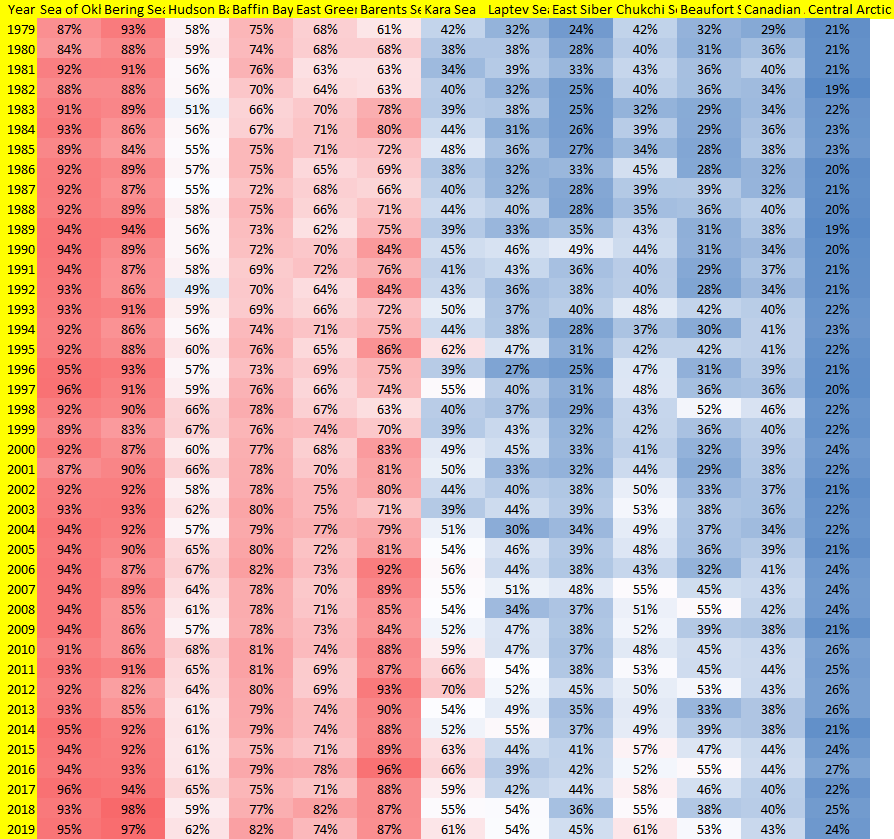
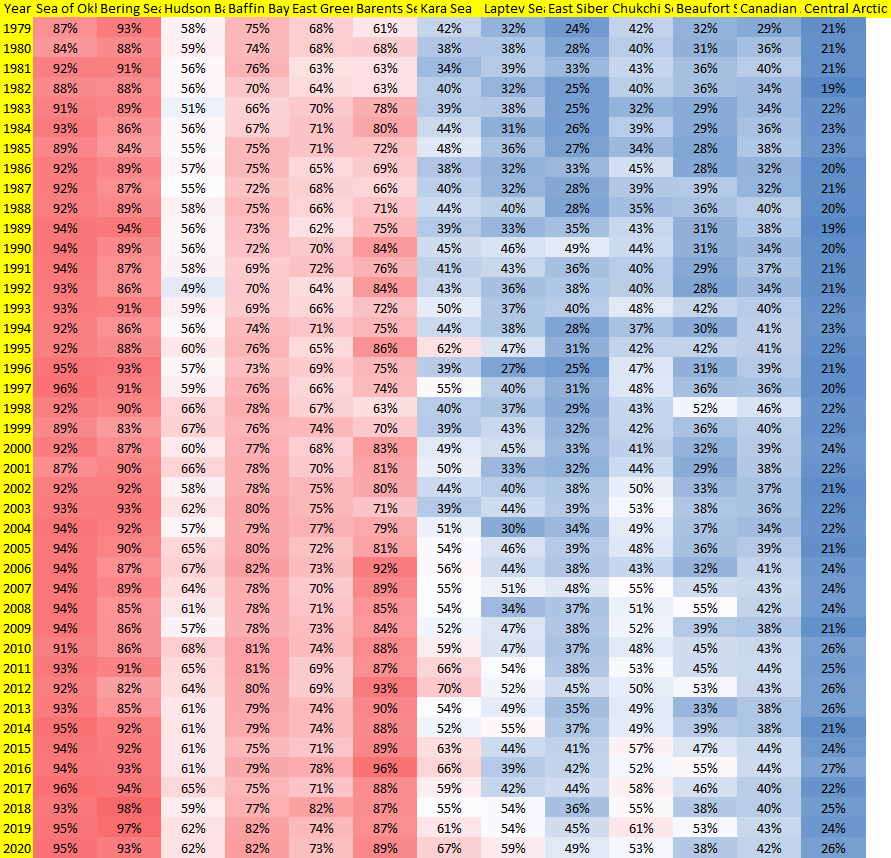
update AWP 2020

diff --git a/awp.html b/awp.html
@@ -219,7 +219,7 @@ p.ex {
 <div class="slidecontainer">
     <span>Year:</span>
     <span id="Arctic_Yearselect" style="font-weight:bold;color:red">2000</span>
-  <input type="range" min="1979" max="2019" value="2000" class="slider" id="myRange_Arctic" style="width:66%">
+  <input type="range" min="1979" max="2020" value="2000" class="slider" id="myRange_Arctic" style="width:66%">
 </div>
 
    </div>
@@ -276,7 +276,7 @@ p.ex {
 <div class="slidecontainer">
     <span>Year:</span>
     <span id="Arctic_Percentselect" style="font-weight:bold;color:red">2000</span>
-  <input type="range" min="1979" max="2019" value="2000" class="slider" id="Percentslider" style="width:66%">
+  <input type="range" min="1979" max="2020" value="2000" class="slider" id="Percentslider" style="width:66%">
 </div>
 </center>
 
@@ -383,7 +383,7 @@ Highcharts.chart('Accumulated', {
     },
     xAxis: {
         categories: ['1979','1980','1981','1982','1983','1984','1985','1986','1987','1988','1989','1990','1991','1992','1993','1994','1995','1996','1997',
-        '1998','1999','2000','2001','2002','2003','2004','2005','2006','2007','2008','2009','2010','2011','2012','2013','2014','2015','2016','2017','2018','2019'],
+        '1998','1999','2000','2001','2002','2003','2004','2005','2006','2007','2008','2009','2010','2011','2012','2013','2014','2015','2016','2017','2018','2019','2020'],
         title: {
             text: null
         }
@@ -412,11 +412,11 @@ Highcharts.chart('Accumulated', {
     series: [{
         name: 'AWP',
         data: [1698,1713,1751,1672,1694,1735,1738,1732,1716,1762,1761,1849,1776,1738,1828,1765,1875,1758,1834,1838,1810,1846,1829,1855,1882,1862,1918,
-        1951,2003,1936,1894,1983,2010,2021,1925,1944,1984,2047,1989,1980,2055]
+        1951,2003,1936,1894,1983,2010,2021,1925,1944,1984,2047,1989,1980,2055,2054]
     },{
         name: 'Anomaly Base 2000-2019',
         data: [-249,-233,-195,-274,-252,-211,-208,-214,-230,-184,-185,-97,-170,-208,-118,-181,-71,-188,-112,-108,-136,-100,-117,-91,-64,-84,-28,5,57,-10,-52,
-        37,64,75,-21,-2,38,101,43,34,109]
+        37,64,75,-21,-2,38,101,43,34,109,108]
     }]
     
 });
@@ -600,7 +600,7 @@ Highcharts.chart('Accumulated_central', {
     },
     xAxis: {
         categories: ['1979','1980','1981','1982','1983','1984','1985','1986','1987','1988','1989','1990','1991','1992','1993','1994','1995','1996','1997',
-        '1998','1999','2000','2001','2002','2003','2004','2005','2006','2007','2008','2009','2010','2011','2012','2013','2014','2015','2016','2017','2018','2019'],
+        '1998','1999','2000','2001','2002','2003','2004','2005','2006','2007','2008','2009','2010','2011','2012','2013','2014','2015','2016','2017','2018','2019','2020'],
         title: {
             text: null
         }
@@ -629,11 +629,11 @@ Highcharts.chart('Accumulated_central', {
     series: [{
         name: 'AWP',
         data: [831,865,914,836,832,859,883,858,866,894,881,1002,916,899,1033,895,1034,851,969,987,943,977,931,966,999,958,1030,1030,1182,1101,1043,1127,1183,
-        1239,1059,1055,1170,1206,1139,1107,1228]
+        1239,1059,1055,1170,1206,1139,1107,1228,1227]
     },{
         name: 'Anomaly Base 2000-2019',
         data: [-255,-222,-172,-251,-255,-228,-203,-229,-220,-192,-206,-85,-171,-187,-54,-192,-53,-235,-118,-100,-144,-110,-155,-120,-87,-129,-56,-57,95,14,-44,
-        41,96,152,-28,-31,83,120,52,20,142]
+        41,96,152,-28,-31,83,120,52,20,142,140]
     }]
     
 });
